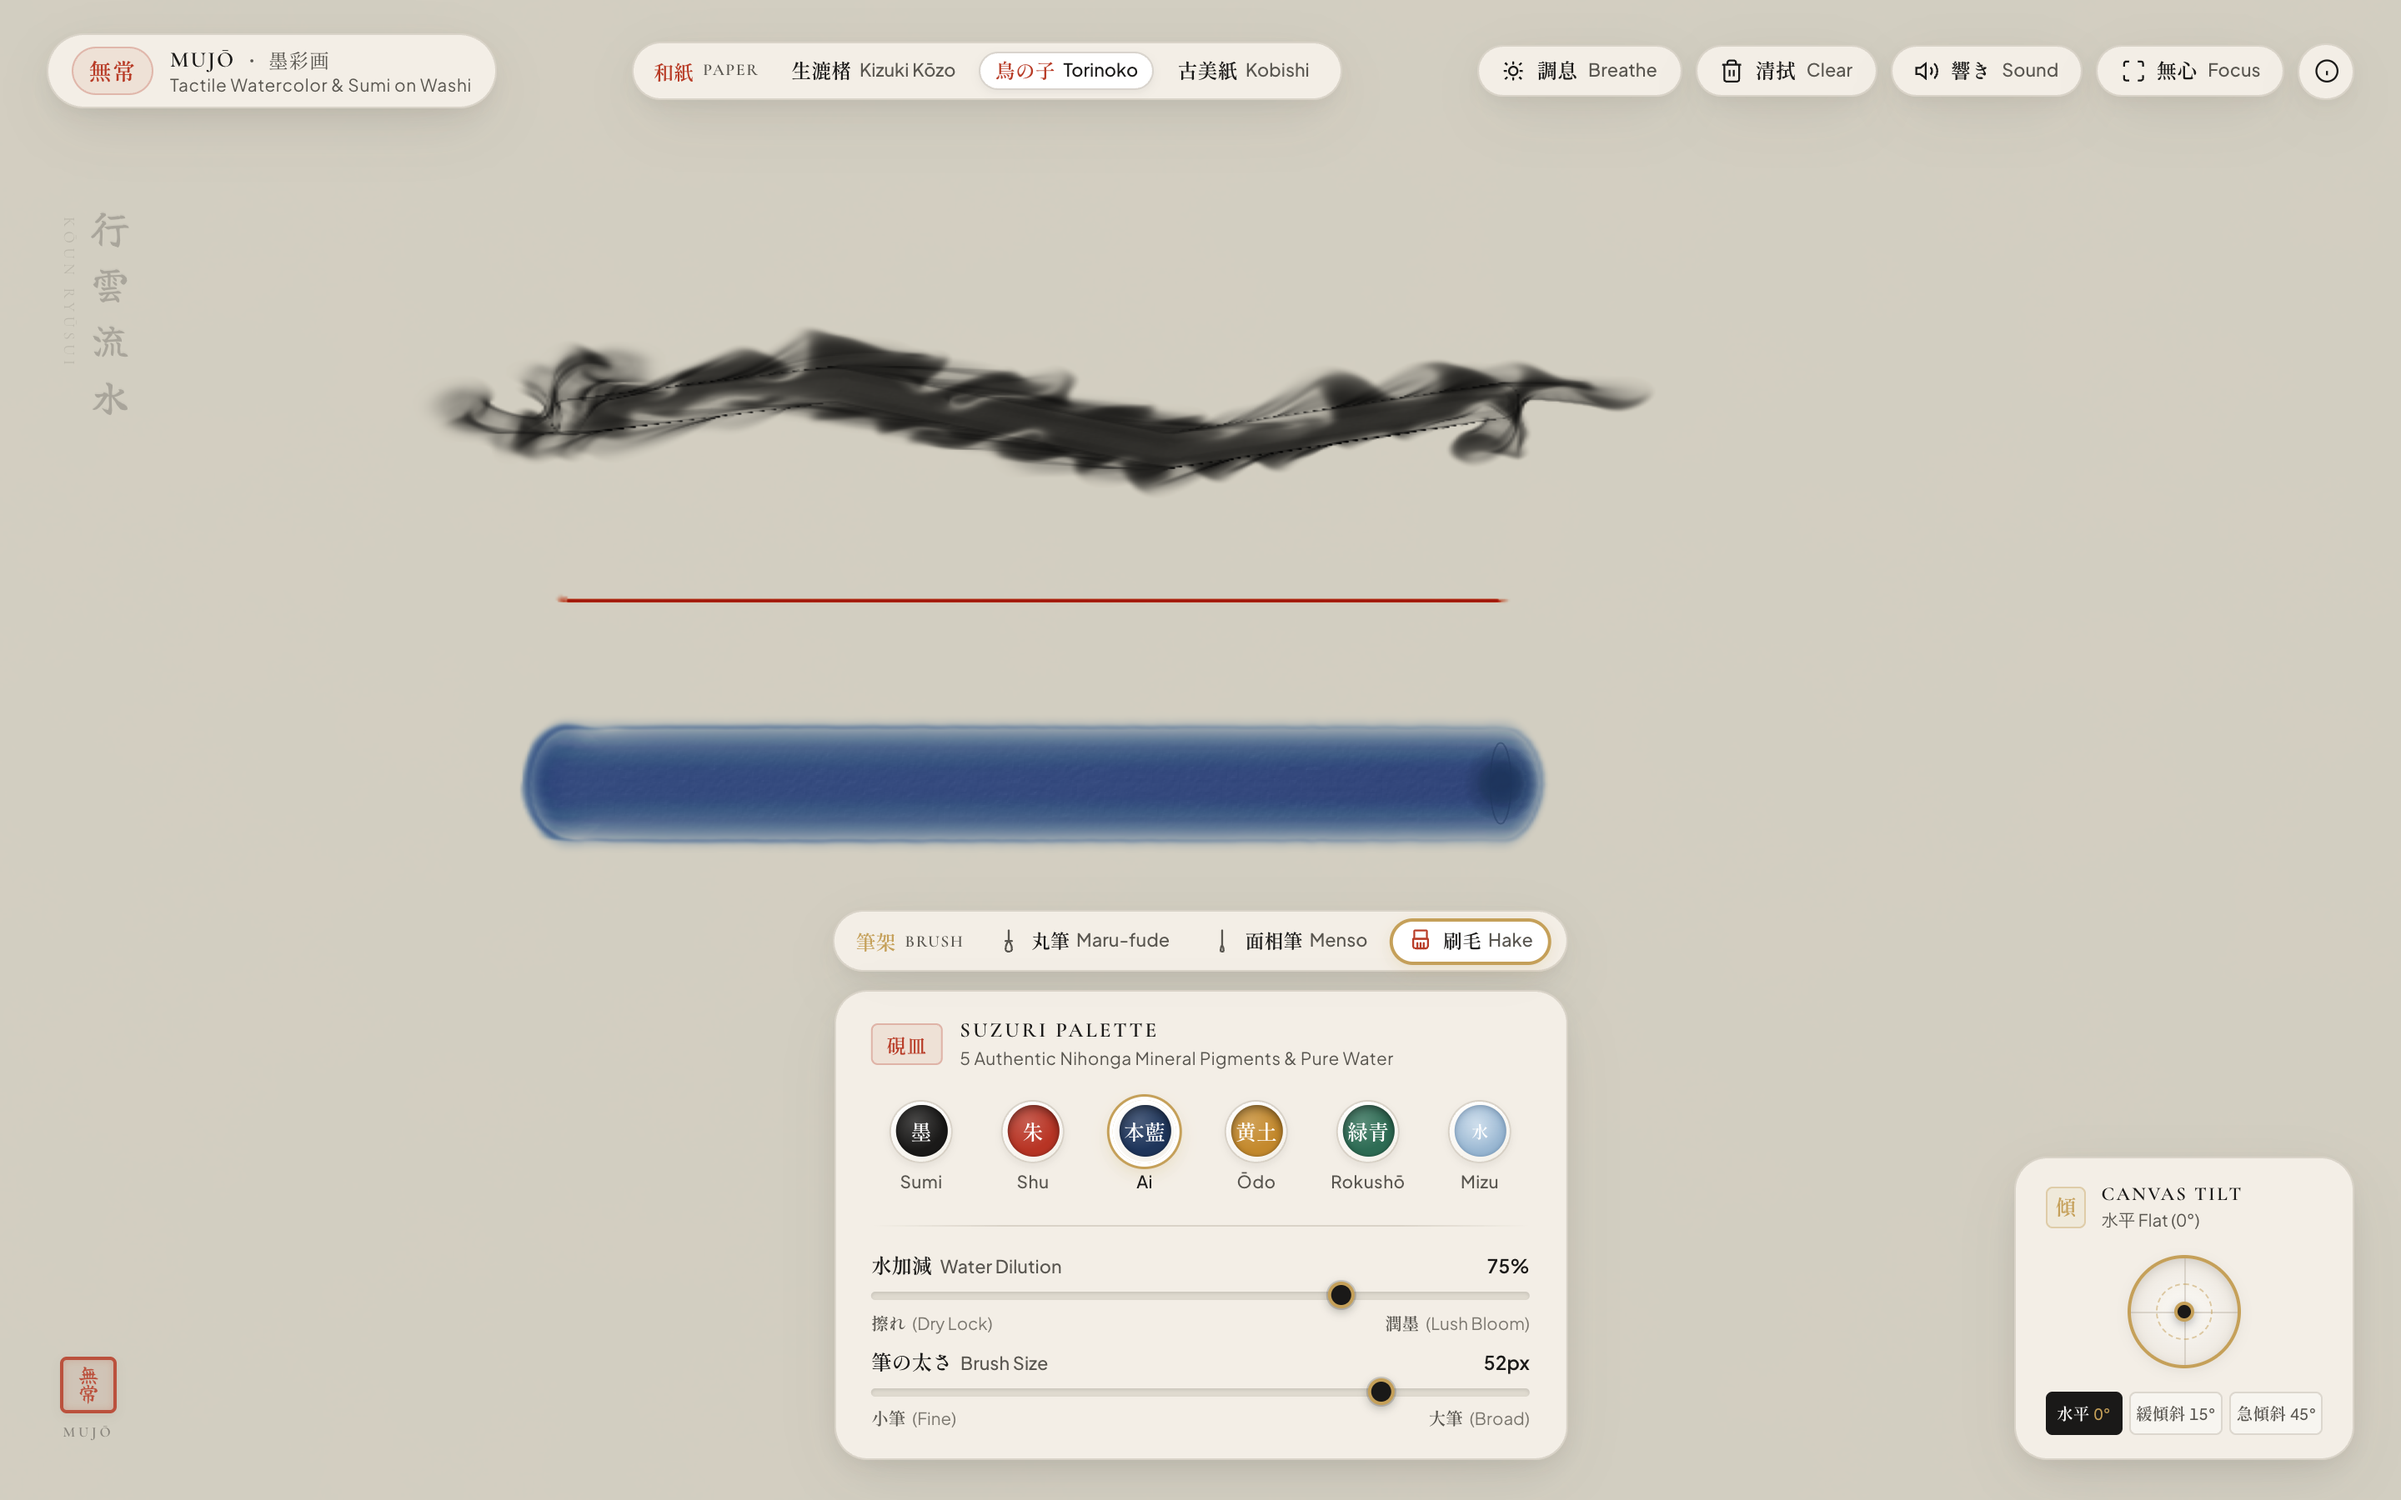
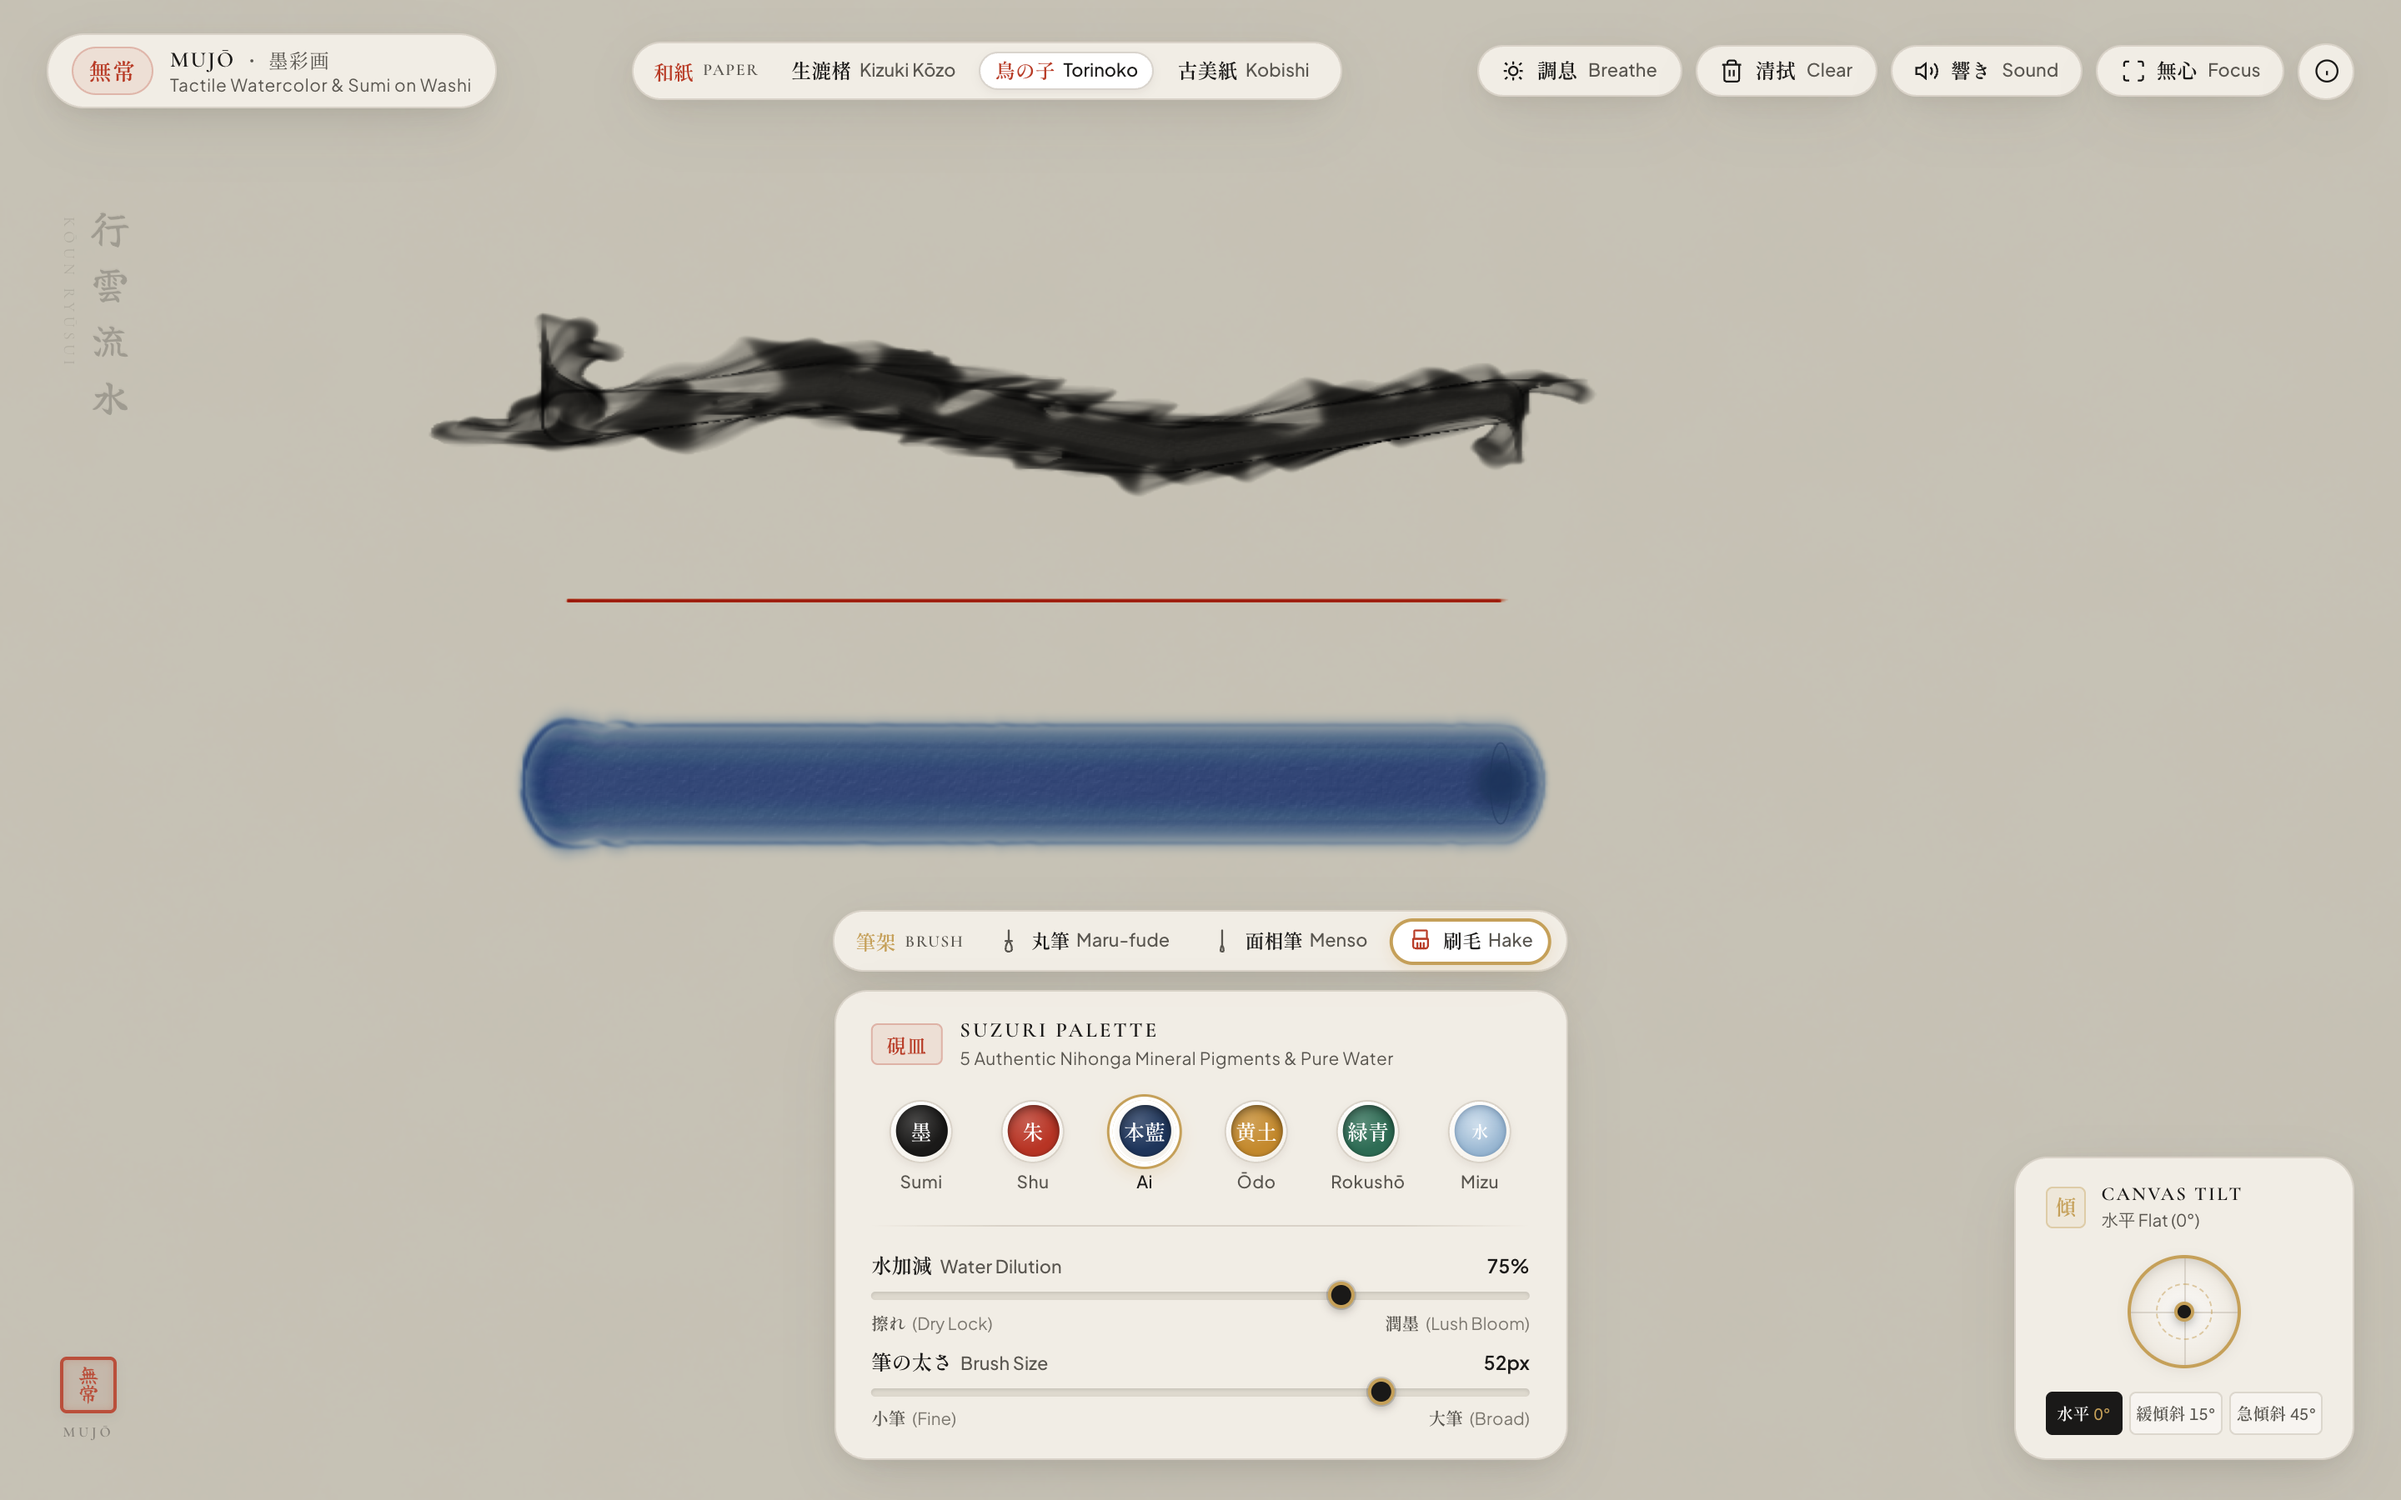
feat(physics): prominent washi paper grain relief, Curtis 1997 contact-line coffee ring darkening, wide dynamic pressure range, and calligraphic flick tapering

Changed region(s): [[0.1562, 0.1867, 0.6875, 0.3422], [0.2188, 0.4667, 0.6562, 0.56], [0.2188, 0.5289, 0.625, 0.5911]]

diff --git a/src/input/PointerTracker.ts b/src/input/PointerTracker.ts
@@ -57,43 +57,47 @@ export class PointerTracker {
     };
   }
 
-  // Dynamic 3D Conical Tuft Radius Calculation with natural proportions
+  // Dynamic 3D Conical Tuft Radius Calculation with wide dynamic range
   private calculateRadius(e: PointerEvent, speed: number): number {
-    let pressure = e.pressure;
-    // macOS Force Touch / WebKit pressure fallback
-    if (typeof (e as any).webkitForce === 'number' && (e as any).webkitForce > 0) {
-      pressure = Math.min(1.0, (e as any).webkitForce / 2.0);
-    } else if (pressure === 0 || pressure === 0.5) {
-      // Dynamic pressure estimated from gesture speed & deceleration
-      pressure = Math.min(1.0, Math.max(0.20, 0.40 + (1.0 - Math.min(1.0, speed * 0.06)) * 0.40));
-    }
-
     const base = this.config.brushSize;
+    let effectivePressure: number;
+    if (typeof (e as any).webkitForce === 'number' && (e as any).webkitForce > 0) {
+      effectivePressure = Math.min(1.0, (e as any).webkitForce / 2.0);
+    } else if (e.pressure > 0 && e.pressure !== 0.5) {
+      effectivePressure = e.pressure;
+    } else {
+      // High-fidelity kinematic pressure model for mouse/trackpad:
+      // Slow deliberate drag (< 0.8 px/ms) -> full belly press (effectivePressure ~ 0.95)
+      // Fast agile flick (> 4.0 px/ms) -> razor-sharp tip (effectivePressure ~ 0.10)
+      const speedDecay = Math.exp(-speed * 0.32);
+      effectivePressure = Math.max(0.06, Math.min(1.0, speedDecay));
+    }
 
     switch (this.config.brushType) {
       case 1: {
         // === MENSO (面相筆 Fine Sable Liner) ===
-        const minMenso = 1.0;
-        const maxMenso = 1.4 + (base / 64) * 2.2;
-        const speedTaper = Math.max(0.45, 1.0 - speed * 0.035);
-        return (minMenso + (maxMenso - minMenso) * Math.pow(pressure, 1.4)) * speedTaper;
+        const minMenso = 0.8;
+        const maxMenso = 1.2 + (base / 64) * 2.0;
+        const speedTaper = Math.max(0.35, Math.min(1.0, 1.02 - speed * 0.04));
+        return (minMenso + (maxMenso - minMenso) * Math.pow(effectivePressure, 1.4)) * speedTaper;
       }
 
       case 2: {
         // === HAKE (刷毛 Broad Flat Goat-Hair Wash) ===
-        const speedTaper = Math.max(0.65, 1.0 - speed * 0.025);
-        return (base * 1.10) * (0.45 + pressure * 0.55) * speedTaper;
+        const speedTaper = Math.max(0.55, Math.min(1.0, 1.0 - speed * 0.02));
+        return (base * 1.15) * (0.35 + effectivePressure * 0.65) * speedTaper;
       }
 
       default: {
         // === MARU-FUDE (丸筆 / 太筆 Conical Calligraphy Tuft) ===
-        // Balanced physical geometry: light touch / fast flick gives a crisp 1.5px-3px tip,
-        // deliberate press expands into a controlled, elegant wash (up to 0.88x base).
-        const minTipRadius = Math.max(1.5, base * 0.08);
-        const maxBellyRadius = base * 0.88;
-        const dynamicPressure = Math.pow(pressure, 1.25);
-        const speedTaper = Math.max(0.30, Math.min(1.12, 1.04 - speed * 0.045));
-        return (minTipRadius + (maxBellyRadius - minTipRadius) * dynamicPressure) * speedTaper;
+        // Wide 15x Dynamic Range:
+        // - Feather touch / fast flick gives crisp 1.2px - 2.5px tip
+        // - Deliberate press expands into generous 18px - 24px belly
+        const minTipRadius = Math.max(1.2, base * 0.06);
+        const maxBellyRadius = base * 1.05;
+        const dynamicPressure = Math.pow(effectivePressure, 1.35);
+        const speedTaper = Math.max(0.22, Math.min(1.10, 1.05 - speed * 0.05));
+        return Math.max(0.8, (minTipRadius + (maxBellyRadius - minTipRadius) * dynamicPressure) * speedTaper);
       }
     }
   }
@@ -240,29 +244,57 @@ export class PointerTracker {
     if (!this.isDrawing) return;
     this.isDrawing = false;
 
-    // Terminal calligraphic tip snap-back recovery (Harai / Hane / Shippitsu 終筆)
+    // Terminal calligraphic tip snap-back recovery & flick taper (Harai / Hane / Shippitsu 終筆)
     if (this.lastCoords.x >= 0) {
       const finalCoords = this.getGridCoordinates(e);
+      const dx = finalCoords.x - this.lastCoords.x;
+      const dy = finalCoords.y - this.lastCoords.y;
+      const dist = Math.hypot(dx, dy);
       const { azimuth, altitude, aspectRatio, bristleSplay } = this.extractStylusKinematics(e, finalCoords);
+
       const exitPoint: RawPointerPoint = {
         x: finalCoords.x,
         y: finalCoords.y,
-        pressure: 0.12,
+        pressure: 0.08,
         timestamp: performance.now(),
-        radius: this.calculateRadius(e, 2.5) * 0.35,
+        radius: Math.max(1.0, this.calculateRadius(e, 4.0) * 0.40),
         brushType: this.config.brushType,
         azimuth,
         altitude,
         aspectRatio,
         bristleSplay
       };
-      const exitSegments = this.splineEngine.pushPoint(
+      this.pendingSegments.push(...this.splineEngine.pushPoint(
         exitPoint,
         this.config.pigmentId,
         this.config.waterDilution,
         this.config.pigmentDensity
-      );
-      this.pendingSegments.push(...exitSegments);
+      ));
+
+      // If flicking with velocity, project a graceful tapered flick tip (Harai 払い / Hane 跳ね)
+      if (dist > 1.0) {
+        const flickLen = Math.min(dist * 1.5, 20.0);
+        const flickX = finalCoords.x + (dx / dist) * flickLen;
+        const flickY = finalCoords.y + (dy / dist) * flickLen;
+        const tipPoint: RawPointerPoint = {
+          x: flickX,
+          y: flickY,
+          pressure: 0.02,
+          timestamp: performance.now() + 10,
+          radius: 0.75, // Razor sharp flick point
+          brushType: this.config.brushType,
+          azimuth,
+          altitude,
+          aspectRatio: 0.20,
+          bristleSplay: 0.0
+        };
+        this.pendingSegments.push(...this.splineEngine.pushPoint(
+          tipPoint,
+          this.config.pigmentId,
+          this.config.waterDilution * 0.7,
+          this.config.pigmentDensity * 0.6
+        ));
+      }
     }
 
     this.lastCoords = { x: -1, y: -1 };
